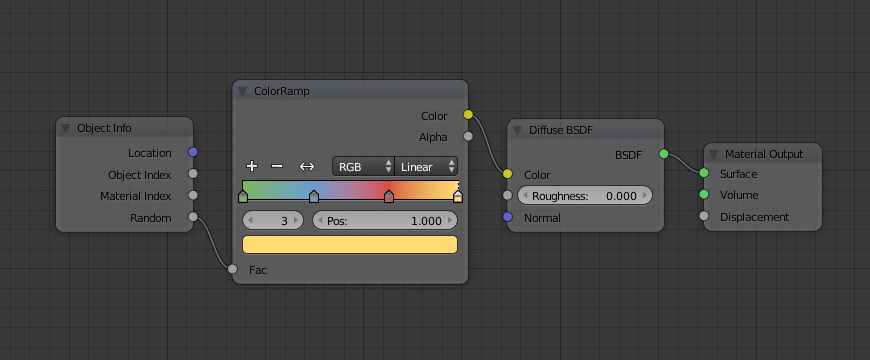
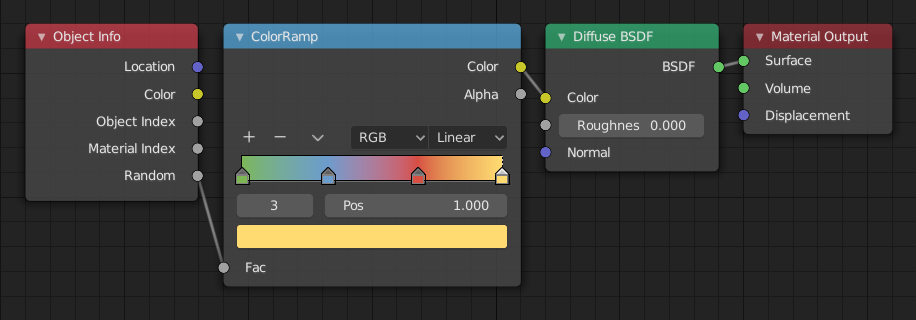
Update Object Info node.
git-svn-id: https://svn.blender.org/svnroot/bf-manual/trunk@5830 c4de1f47-6596-e411-a384-0024e86c2797

diff --git a/blender_docs/manual/render/shader_nodes/input/object_info.rst b/blender_docs/manual/render/shader_nodes/input/object_info.rst
@@ -33,6 +33,8 @@ Outputs
 
 Location
    Location of the object in world space.
+Color
+   Object color, same as *Color* in the :menuselection:`Properties Editor --> Object --> Viewport Display`.
 Object Index
    Object pass index, same as *Pass Index*
    in the :menuselection:`Properties Editor --> Object --> Relations`.
